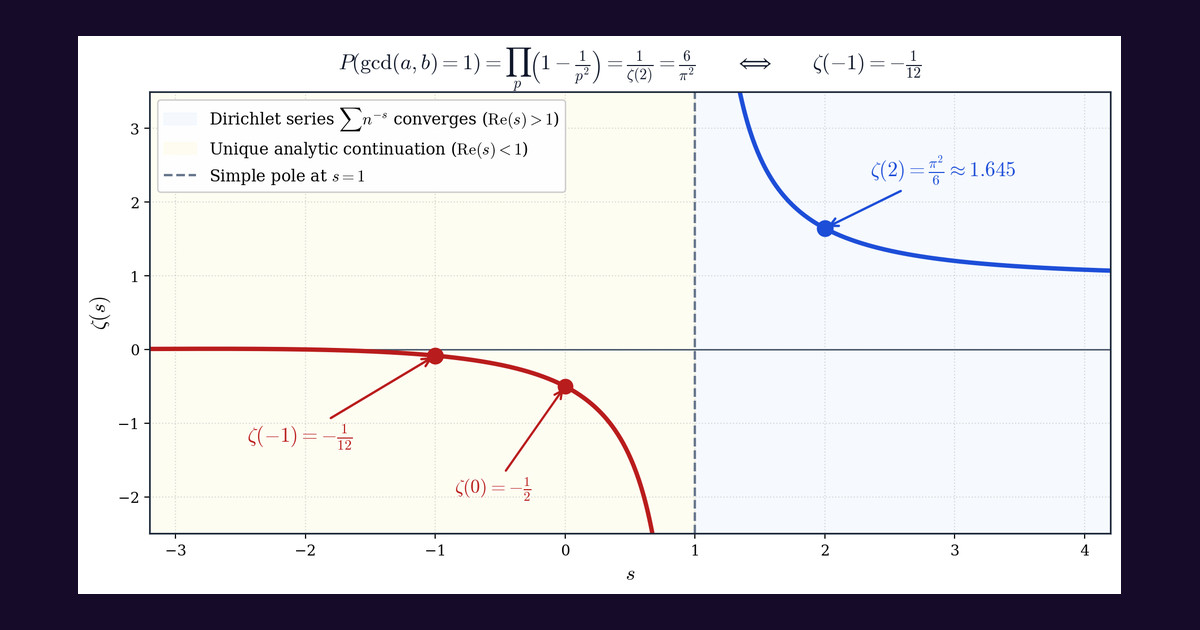
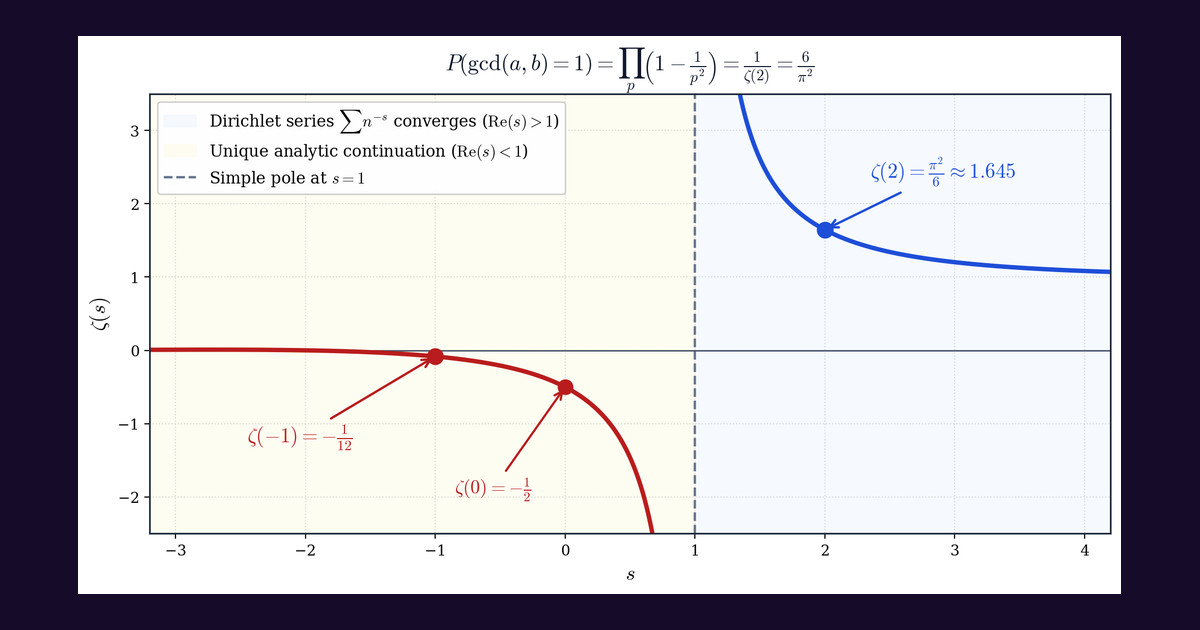
Fix zeta cover title expression; use Gojo-themed cover for Peano post

diff --git a/data/portfolio_data.js b/data/portfolio_data.js
@@ -615,7 +615,7 @@ window.PORTFOLIO_DATA = {
       "category": "Mathematics & Physics",
       "source": "Blog",
       "read_time": "11 min read",
-      "cover_image": "/images/peano_and_dedekind_gap.png",
+      "cover_image": "/images/peano_dedekind_cover.jpg",
       "summary": "How to build the entire number system from the empty set: Peano axioms and von Neumann ordinals for ℕ, equivalence classes for ℤ and ℚ, why S = {x ∈ ℚ : 0 < x² < 2} has no supremum in ℚ, Dedekind cuts for ℝ, and why equipping the vector space ℝ² with any field structure forces an element z ∈ ℂ with z² = −1.",
       "external_url": "",
       "pdf_url": "",
@@ -625,7 +625,7 @@ window.PORTFOLIO_DATA = {
         "Set Theory",
         "Field Theory & ℂ"
       ],
-      "content": "Whether $0$ is considered a natural number is purely a matter of convention. Throughout this article, we adopt the standard foundational convention:\n\n$$\\mathbb{N} := \\{0, 1, 2, 3, \\dots\\}$$\n\nThis raises a foundational question: **how do we rigorously construct $\\mathbb{N}$ from scratch, and how do we climb all the way from $\\mathbb{N}$ through $\\mathbb{Z}$, $\\mathbb{Q}$, and $\\mathbb{R}$ to the complex field $\\mathbb{C}$?**\n\n## 1. Constructing $\\mathbb{N}$ via the Peano Axioms\n\nThe classic axiomatization of the natural numbers is given by the **Peano Axioms**. Rather than listing all five axioms at once, it is much more illuminating to introduce them one by one and see what breaks when any single axiom is omitted.\n\n### Axiom (a) & Axiom (b): Starting Point and Successors\n\n- **Axiom (a):** $0 \\in \\mathbb{N}$.\n- **Axiom (b):** If $n \\in \\mathbb{N}$, then its **successor** $n^{++} \\in \\mathbb{N}$.\n\nWe define the familiar numerals as abbreviations for repeated successors: $1 := 0^{++}$, $2 := 1^{++}$, $3 := 2^{++}$, and so on.\n\n**Why (a) and (b) are not enough:** Nothing in these two rules prevents the successor operation from looping back to $0$. For instance, the two-element set $\\mathbb{N} = \\{0, 1\\}$ with\n\n$$0^{++} = 1, \\qquad 1^{++} = 0$$\n\nsatisfies both (a) and (b)! To forbid cycles returning to $0$, we need a third axiom:\n\n### Axiom (c): $0$ Is Not a Successor\n\n- **Axiom (c):** For all $n \\in \\mathbb{N}$, $n^{++} \\neq 0$.\n\nThis prevents the chain from wrapping back around to $0$.\n\n**Why (a), (b), and (c) are still not enough:** Consider again the two-element set $\\mathbb{N} = \\{0, 1\\}$, but now define:\n\n$$0^{++} = 1, \\qquad 1^{++} = 1$$\n\nHere nothing maps to $0$, so Axiom (c) is satisfied, yet the chain gets stuck at $1$ forever! To prevent two distinct numbers from collapsing onto the same successor, we require the successor map to be **injective (one-to-one)**:\n\n### Axiom (d): Injectivity of the Successor Map\n\n- **Axiom (d):** For all $n, m \\in \\mathbb{N}$, if $n^{++} = m^{++}$, then $n = m$.\n\nNow $0^{++} = 1$ and $1^{++} = 1$ is impossible because $0 \\neq 1$. Together, Axioms (a) through (d) force $\\mathbb{N}$ to be an **infinite** set.\n\n**Why even (a) through (d) are not enough:** Even an infinite set satisfying (a) through (d) can contain \"uninvited guests\" that cannot be reached from $0$ by repeated successors! For example, suppose someone claims:\n\n$$\\tilde{\\mathbb{N}} = \\{0, 0.5, 1, 1.5, 2, 2.5, \\dots\\}$$\n\nwith $x^{++} = x + 1$. This set contains $0$, is closed under $^{++}$, never maps back to $0$, and has an injective successor map. Yet the half-integers $0.5, 1.5, 2.5, \\dots$ form a separate, parallel chain hiding inside the set that is completely unreachable starting from $0$.\n\nTo lock out every such rogue element, we introduce the fifth and final axiom:\n\n### Axiom (e): Principle of Mathematical Induction\n\n- **Axiom (e):** Let $P(n)$ be any property pertaining to $n$. If $P(0)$ is true, and whenever $P(n)$ is true it follows that $P(n^{++})$ is also true, then $P(n)$ is true for **all** $n \\in \\mathbb{N}$.\n\nWatch how Induction immediately expels the half-integers: define the predicate\n\n$$P(n) :\\equiv \\text{\"}n\\text{ is not a half-integer.\"}$$\n\n1. **Base case:** $P(0)$ is clearly true.\n2. **Inductive step:** If $n$ is not a half-integer, then $n + 1$ is not a half-integer either, so $P(n) \\implies P(n^{++})$.\n\nBy Axiom (e), $P(n)$ must hold for every $n \\in \\mathbb{N}$. Since $P(0.5)$ is false, $0.5$ cannot belong to $\\mathbb{N}$!\n\n![Pathological models defeated by Peano Axioms (c), (d), and (e)](/images/peano_pathological_models.png)\n\n## 2. Von Neumann Ordinals and the Axiom of Infinity\n\nThe Peano axioms specify how $\\mathbb{N}$ *behaves*, but can we explicitly build a concrete model of $\\mathbb{N}$ out of pure sets? My favorite construction is due to **John von Neumann**, who defined each natural number as the set of all preceding natural numbers via the successor operation:\n\n$$x^{++} := x \\cup \\{x\\}$$\n\nStarting with $0 := \\varnothing$ (the empty set), every natural number emerges purely from braces:\n\n$$\\begin{aligned}\n0 &:= \\varnothing \\\\\n1 &:= 0^{++} = \\varnothing \\cup \\{\\varnothing\\} = \\{\\varnothing\\} \\\\\n2 &:= 1^{++} = \\{\\varnothing, \\{\\varnothing\\}\\} = \\{0, 1\\} \\\\\n3 &:= 2^{++} = \\{\\varnothing, \\{\\varnothing\\}, \\{\\varnothing, \\{\\varnothing\\}\\}\\} = \\{0, 1, 2\\}\n\\end{aligned}$$\n\nNotice that the cardinality (number of elements) of the set $n$ is literally $n$!\n\nHere is the catch illustrated in the meme below: using the elementary axioms of Zermelo-Fraenkel (ZF) set theory (Empty Set, Pairing, and Union), we can construct any *individual* finite ordinal $0, 1, 2, \\dots, n$. However, a finite sequence of set operations can never gather *all* of them into a single completed set $\\mathbb{N}$.\n\n![Axiom of Infinity guarding against building infinite set N purely from successor iterations](/images/axiom_of_infinity_meme.jpg)\n\nTo guarantee that the entire infinite collection $\\mathbb{N} = \\{0, 1, 2, \\dots\\}$ exists as a set, ZF must postulate the **Axiom of Infinity**: there exists an inductive set containing $\\varnothing$ that is closed under $x \\mapsto x \\cup \\{x\\}$.\n\n## 3. Constructing $\\mathbb{Z}$ and $\\mathbb{Q}$ via Equivalence Classes\n\nOnce we have $(\\mathbb{N}, +, \\times)$, how do we construct negative numbers and fractions without assuming subtraction or division beforehand? The secret is **equivalence classes of ordered pairs**.\n\n### Step 1: Constructing the Integers $\\mathbb{Z}$ from $\\mathbb{N} \\times \\mathbb{N}$\n\nIn $\\mathbb{N}$, an equation like $x + 3 = 2$ has no solution because $2 - 3$ does not exist in $\\mathbb{N}$. To build the integers $\\mathbb{Z}$ using *only* natural numbers and $+$, we represent every integer as an ordered pair $(a, b) \\in \\mathbb{N} \\times \\mathbb{N}$, which we intuitively think of as the difference $a - b$.\n\nSince $a - b = c - d \\iff a + d = b + c$, we can state when two pairs represent the same integer using **only addition in $\\mathbb{N}$**:\n\n$$(a, b) \\sim (c, d) \\iff a + d = b + c$$\n\nThe integers are the equivalence classes $\\mathbb{Z} := (\\mathbb{N} \\times \\mathbb{N}) / {\\sim}$:\n\n- **Zero:** $0_{\\mathbb{Z}} = [(0, 0)] = \\{(0, 0), (1, 1), (2, 2), \\dots\\}$\n- **Positive integers:** $+n = [(n, 0)] = \\{(n, 0), (n+1, 1), (n+2, 2), \\dots\\}$\n- **Negative integers:** $-n = [(0, n)] = \\{(0, n), (1, n+1), (2, n+2), \\dots\\}$\n\n### Step 2: Constructing the Rationals $\\mathbb{Q}$ from $\\mathbb{Z} \\times (\\mathbb{Z} \\setminus \\{0\\})$\n\nIn $\\mathbb{Z}$, we can subtract freely, but $2x = 1$ still has no solution. To build fractions $p/q$ without already having division, we take ordered pairs $(p, q) \\in \\mathbb{Z} \\times (\\mathbb{Z} \\setminus \\{0\\})$ and define equivalence via **cross-multiplication**:\n\n$$(p, q) \\sim (r, s) \\iff p \\cdot s = q \\cdot r$$\n\nThe rational numbers are the equivalence classes $\\mathbb{Q} := \\left(\\mathbb{Z} \\times (\\mathbb{Z} \\setminus \\{0\\})\\right) / {\\sim}$, with addition $[(p, q)] + [(r, s)] = [(ps + qr,\\, qs)]$ and multiplication $[(p, q)] \\cdot [(r, s)] = [(pr,\\, qs)]$.\n\n## 4. Why $\\mathbb{Q}$ Is Incomplete: A Gap at $\\sqrt{2}$\n\nEquipped with $+$ and $\\times$, $(\\mathbb{Q}, +, \\times, <)$ forms an **ordered field**. Yet $\\mathbb{Q}$ still has holes: **a nonempty subset of $\\mathbb{Q}$ can be bounded above in $\\mathbb{Q}$ without having a supremum (least upper bound) in $\\mathbb{Q}$**.\n\nConsider the nonempty rational set:\n\n$$S = \\{x \\in \\mathbb{Q} : x > 0 \\text{ and } x^2 < 2\\} \\neq \\varnothing$$\n\nClearly $\\inf S = 0 \\in \\mathbb{Q}$, and $S$ is bounded above by $2$. Suppose for contradiction that $S$ had a least upper bound $a = \\sup S \\in \\mathbb{Q}$ (with $0 < a < 2$):\n\n#### Case 1: $a^2 < 2$\n\nIf $a^2 < 2$, we can find a small positive rational step $\\delta \\in \\mathbb{Q}$ ($0 < \\delta \\le 1$) such that $(a + \\delta)^2 < 2$ still holds. Since $a < 2$ and $\\delta \\le 1$:\n\n$$(a + \\delta)^2 = a^2 + \\delta(2a + \\delta) < a^2 + \\delta(2 \\times 2 + 1) = a^2 + 5\\delta$$\n\nChoosing $\\delta = \\min\\!\\left(1,\\, \\frac{2 - a^2}{5}\\right) \\in \\mathbb{Q}^+$ gives $(a + \\delta)^2 < a^2 + 5\\delta \\le 2$. Thus $a + \\delta \\in S$ and $a + \\delta > a$, contradicting that $a$ is an upper bound of $S$!\n\n#### Case 2: $a^2 > 2$\n\nIf $a^2 > 2$, choosing $\\delta = \\frac{a^2 - 2}{2a} \\in \\mathbb{Q}^+$ gives $a - \\delta > 0$ and\n\n$$(a - \\delta)^2 = a^2 - 2a\\delta + \\delta^2 > a^2 - 2a\\left(\\frac{a^2 - 2}{2a}\\right) = 2$$\n\nThus $a - \\delta < a$ is already an upper bound for $S$, contradicting that $a$ is the *least* upper bound ($\\sup S$)!\n\nTherefore $\\sup S$ would have to satisfy $a^2 = 2$ ($a = \\sqrt{2} \\notin \\mathbb{Q}$), proving that **$\\sup S$ does not exist in $\\mathbb{Q}$**.\n\n## 5. Constructing the Real Numbers $\\mathbb{R}$ via Dedekind Cuts\n\nHow do we fill every gap in $\\mathbb{Q}$ to construct the complete ordered field $\\mathbb{R}$? Notice first that we cannot build $\\mathbb{R}$ as a simple quotient of finite pairs like $\\mathbb{N} \\times \\mathbb{N}$ because $\\mathbb{N} \\times \\mathbb{N}$ and $\\mathbb{Q}$ are **countable** ($\\aleph_0$), whereas $\\mathbb{R}$ is **uncountable** ($2^{\\aleph_0}$). Instead, we step up from pairs of rationals to **subsets of $\\mathbb{Q}$**!\n\nSince $\\mathbb{Q}$ has a hole at $\\sqrt{2}$, **Richard Dedekind's** brilliant idea (1872) was to **identify each real number with the set of all rational numbers strictly to its left**. Formally, a **Dedekind cut** is a subset $\\alpha \\subset \\mathbb{Q}$ satisfying three simple rules:\n\n1. **Nontrivial:** $\\alpha \\neq \\varnothing$ and $\\alpha \\neq \\mathbb{Q}$.\n2. **Closed downward:** If $p \\in \\alpha$ and $q \\in \\mathbb{Q}$ with $q < p$, then $q \\in \\alpha$.\n3. **No greatest element:** For every $p \\in \\alpha$, there exists $r \\in \\alpha$ with $p < r$.\n\nLook how naturally our gap set $S$ turns into the real number $\\sqrt{2} \\in \\mathbb{R}$:\n\n$$\\alpha_{\\sqrt{2}} := \\{x \\in \\mathbb{Q} : x \\le 0\\} \\cup \\{x \\in \\mathbb{Q} : x > 0 \\text{ and } x^2 < 2\\}$$\n\nOrdering on cuts is just set inclusion ($\\alpha \\le \\beta \\iff \\alpha \\subseteq \\beta$), with the zero cut given by $0_{\\mathbb{R}} := \\{q \\in \\mathbb{Q} : q < 0\\}$. **Dedekind Completeness** becomes effortless: for any nonempty family $\\mathcal{F}$ of cuts bounded above, its least upper bound ($\\sup \\mathcal{F}$) in $\\mathbb{R}$ is simply their **set union** $\\bigcup_{\\alpha \\in \\mathcal{F}} \\alpha$!\n\n### Arithmetic on Dedekind Cuts ($+$ and $\\cdot$)\n\nTo make $\\mathbb{R}$ an ordered field, how do we add and multiply cuts?\n\n- **Addition** is completely natural: we add every rational in $\\alpha$ to every rational in $\\beta$:\n  $$\\alpha + \\beta := \\{p + q : p \\in \\alpha,\\, q \\in \\beta\\}$$\n- **Multiplication** has a famous subtlety: we *cannot* simply define $\\alpha \\cdot \\beta$ as $\\{p \\cdot q : p \\in \\alpha, q \\in \\beta\\}$, because every cut contains arbitrarily large negative rationals (e.g., $-1000 \\in \\alpha, -1000 \\in \\beta$), whose product $+10^6$ would make the set unbounded above! Instead, for **positive cuts** ($\\alpha > 0_{\\mathbb{R}}$ and $\\beta > 0_{\\mathbb{R}}$), we multiply only their positive elements and attach the negative rationals to keep the cut closed downward:\n  $$\\alpha \\cdot \\beta := \\{q \\in \\mathbb{Q} : q \\le 0\\} \\cup \\{p \\cdot q : p \\in \\alpha,\\, q \\in \\beta \\text{ with } p > 0,\\, q > 0\\}$$\n  (with multiplication for negative cuts then defined by the standard sign rules, e.g., $\\alpha \\cdot \\beta = -((-\\alpha) \\cdot \\beta)$ when $\\alpha < 0_{\\mathbb{R}} < \\beta$). Under this definition, notice that for our cut $\\alpha_{\\sqrt{2}}$, multiplying positive rationals $p, q > 0$ with $p^2 < 2$ and $q^2 < 2$ yields $\\alpha_{\\sqrt{2}} \\cdot \\alpha_{\\sqrt{2}} = \\{x \\in \\mathbb{Q} : x < 2\\} = 2_{\\mathbb{R}}$!\n\n## 6. From $\\mathbb{R}$ to $\\mathbb{C}$: Why Any Field Structure on $\\mathbb{R}^2$ Forces $z^2 = -1$\n\nIn the complete ordered field $\\mathbb{R}$, every nonnegative number has a square root, yet the polynomial $z^2 + 1 = 0$ still has no root because $x^2 \\ge 0$ for all $x \\in \\mathbb{R}$. Rather than inventing an \"imaginary\" symbol $i = \\sqrt{-1}$ by fiat, we can ask a much more structural question: **if we view $\\mathbb{C} \\cong \\mathbb{R}^2$ as a 2-dimensional vector space over $\\mathbb{R}$ and equip it with *any* valid field multiplication compatible with its vector-space operations, must there automatically exist an element $z \\in \\mathbb{R}^2$ satisfying $z^2 = -1$?**\n\nLet us prove this directly from the vector-space and field axioms:\n\n### Step 1: Basis Decomposition in $\\mathbb{R}^2$\n\nView $\\mathbb{C} \\cong \\mathbb{R}^2$ as a 2-dimensional $\\mathbb{R}$-vector space spanned by the multiplicative identity $\\mathbf{1}$ (which spans the real axis) and any second linearly independent vector $\\mathbf{e} \\notin \\operatorname{span}\\{\\mathbf{1}\\}$:\n\n$$\\mathbb{R}^2 = \\operatorname{span}\\{\\mathbf{1},\\, \\mathbf{e}\\}$$\n\nConsider an arbitrary vector $z \\in \\mathbb{R}^2$ that does not lie on the real ($\\mathbf{1}$) axis:\n\n$$z = x \\cdot \\mathbf{1} + y \\cdot \\mathbf{e}, \\qquad x, y \\in \\mathbb{R}, \\quad y \\neq 0$$\n\n### Step 2: Squaring $z$ Using Closure of Multiplication\n\nBy bilinearity and commutativity of the field multiplication on $\\mathbb{R}^2$:\n\n$$z^2 = x^2 \\cdot \\mathbf{1} + y^2 \\cdot \\mathbf{e}^2 + 2xy \\cdot \\mathbf{e}$$\n\nSince $\\mathbb{R}^2$ is closed under multiplication, $\\mathbf{e}^2 \\in \\mathbb{R}^2$ must itself be a unique real linear combination of the basis vectors $\\{\\mathbf{1}, \\mathbf{e}\\}$:\n\n$$\\mathbf{e}^2 = a \\cdot \\mathbf{1} + b \\cdot \\mathbf{e} \\qquad \\text{for some } a, b \\in \\mathbb{R}$$\n\nSubstituting $\\mathbf{e}^2$ into the expansion of $z^2$ gives:\n\n$$z^2 = (x^2 + ay^2) \\cdot \\mathbf{1} + (by^2 + 2xy) \\cdot \\mathbf{e}$$\n\n### Step 3: Eliminating the $\\mathbf{e}$-Component\n\nBecause $y \\neq 0$, we can choose the real coordinate $x = -\\frac{by}{2} \\in \\mathbb{R}$ so that the coefficient of $\\mathbf{e}$ vanishes ($by^2 + 2xy = by^2 - by^2 = 0$). With this choice of $x$, $z^2$ collapses purely onto the $\\mathbf{1}$-axis:\n\n$$z^2 = \\left(x^2 + ay^2\\right) \\cdot \\mathbf{1} = \\left(\\frac{b^2 y^2}{4} + ay^2\\right) \\cdot \\mathbf{1} = \\left(a + \\frac{b^2}{4}\\right) y^2 \\cdot \\mathbf{1}$$\n\n### Step 4: Why $a + \\frac{b^2}{4}$ Must Be Strictly Negative\n\nEvery real number $a + \\frac{b^2}{4} \\in \\mathbb{R}$ can be written as either $+c^2$ or $-c^2$ for some $c \\ge 0$:\n\n- **Suppose $a + \\frac{b^2}{4} = c^2 \\ge 0$:** Then\n  $$z^2 = c^2 y^2 \\cdot \\mathbf{1} = (cy \\cdot \\mathbf{1})^2 \\implies (z - cy \\cdot \\mathbf{1})(z + cy \\cdot \\mathbf{1}) = 0$$\n  Because a field has no zero divisors, this forces $z = \\pm cy \\cdot \\mathbf{1}$. **Contradiction!** By construction, $z = -\\frac{by}{2}\\mathbf{1} + y\\mathbf{e}$ has $y \\neq 0$, so $z$ does not align with the real ($\\mathbf{1}$) axis.\n- **Therefore, $a + \\frac{b^2}{4} = -c^2 < 0$ (with $c > 0$):** Now simply choose $y = \\frac{1}{c}$ (and $x = -\\frac{b}{2c}$). Then the vector\n  $$z = -\\frac{b}{2c} \\cdot \\mathbf{1} + \\frac{1}{c} \\cdot \\mathbf{e} \\in \\mathbb{R}^2$$\n  satisfies:\n  $$z^2 = -c^2 \\cdot \\left(\\frac{1}{c}\\right)^2 \\cdot \\mathbf{1} = -\\mathbf{1}$$\n\n$$\\therefore \\quad \\exists\\, z \\in \\mathbb{C} \\text{ such that } z^2 = -1.$$\n\nThus, the existence of $i$ (with $i^2 = -1$) is not an arbitrary invention: **any** way of turning the 2D real plane $\\mathbb{R}^2$ into a field over $\\mathbb{R}$ inevitably produces a square root of $-1$ and yields a field isomorphic to $\\mathbb{C}$!",
+      "content": "Whether $0$ is considered a natural number is purely a matter of convention. Throughout this article, we adopt the standard foundational convention:\n\n$$\\mathbb{N} := \\{0, 1, 2, 3, \\dots\\}$$\n\nThis raises a foundational question: **how do we rigorously construct $\\mathbb{N}$ from scratch, and how do we climb all the way from $\\mathbb{N}$ through $\\mathbb{Z}$, $\\mathbb{Q}$, and $\\mathbb{R}$ to the complex field $\\mathbb{C}$?**\n\n## 1. Constructing $\\mathbb{N}$ via the Peano Axioms\n\nThe classic axiomatization of the natural numbers is given by the **Peano Axioms**. Rather than listing all five axioms at once, it is much more illuminating to introduce them one by one and see what breaks when any single axiom is omitted.\n\n### Axiom (a) & Axiom (b): Starting Point and Successors\n\n- **Axiom (a):** $0 \\in \\mathbb{N}$.\n- **Axiom (b):** If $n \\in \\mathbb{N}$, then its **successor** $n^{++} \\in \\mathbb{N}$.\n\nWe define the familiar numerals as abbreviations for repeated successors: $1 := 0^{++}$, $2 := 1^{++}$, $3 := 2^{++}$, and so on.\n\n**Why (a) and (b) are not enough:** Nothing in these two rules prevents the successor operation from looping back to $0$. For instance, the two-element set $\\mathbb{N} = \\{0, 1\\}$ with\n\n$$0^{++} = 1, \\qquad 1^{++} = 0$$\n\nsatisfies both (a) and (b)! To forbid cycles returning to $0$, we need a third axiom:\n\n### Axiom (c): $0$ Is Not a Successor\n\n- **Axiom (c):** For all $n \\in \\mathbb{N}$, $n^{++} \\neq 0$.\n\nThis prevents the chain from wrapping back around to $0$.\n\n**Why (a), (b), and (c) are still not enough:** Consider again the two-element set $\\mathbb{N} = \\{0, 1\\}$, but now define:\n\n$$0^{++} = 1, \\qquad 1^{++} = 1$$\n\nHere nothing maps to $0$, so Axiom (c) is satisfied, yet the chain gets stuck at $1$ forever! To prevent two distinct numbers from collapsing onto the same successor, we require the successor map to be **injective (one-to-one)**:\n\n### Axiom (d): Injectivity of the Successor Map\n\n- **Axiom (d):** For all $n, m \\in \\mathbb{N}$, if $n^{++} = m^{++}$, then $n = m$.\n\nNow $0^{++} = 1$ and $1^{++} = 1$ is impossible because $0 \\neq 1$. Together, Axioms (a) through (d) force $\\mathbb{N}$ to be an **infinite** set.\n\n**Why even (a) through (d) are not enough:** Even an infinite set satisfying (a) through (d) can contain \"uninvited guests\" that cannot be reached from $0$ by repeated successors! For example, suppose someone claims:\n\n$$\\tilde{\\mathbb{N}} = \\{0, 0.5, 1, 1.5, 2, 2.5, \\dots\\}$$\n\nwith $x^{++} = x + 1$. This set contains $0$, is closed under $^{++}$, never maps back to $0$, and has an injective successor map. Yet the half-integers $0.5, 1.5, 2.5, \\dots$ form a separate, parallel chain hiding inside the set that is completely unreachable starting from $0$.\n\nTo lock out every such rogue element, we introduce the fifth and final axiom:\n\n### Axiom (e): Principle of Mathematical Induction\n\n- **Axiom (e):** Let $P(n)$ be any property pertaining to $n$. If $P(0)$ is true, and whenever $P(n)$ is true it follows that $P(n^{++})$ is also true, then $P(n)$ is true for **all** $n \\in \\mathbb{N}$.\n\nWatch how Induction immediately expels the half-integers: define the predicate\n\n$$P(n) :\\equiv \\text{\"}n\\text{ is not a half-integer.\"}$$\n\n1. **Base case:** $P(0)$ is clearly true.\n2. **Inductive step:** If $n$ is not a half-integer, then $n + 1$ is not a half-integer either, so $P(n) \\implies P(n^{++})$.\n\nBy Axiom (e), $P(n)$ must hold for every $n \\in \\mathbb{N}$. Since $P(0.5)$ is false, $0.5$ cannot belong to $\\mathbb{N}$!\n\n![Pathological models defeated by Peano Axioms (c), (d), and (e)](/images/peano_pathological_models.png)\n\n## 2. Von Neumann Ordinals and the Axiom of Infinity\n\nThe Peano axioms specify how $\\mathbb{N}$ *behaves*, but can we explicitly build a concrete model of $\\mathbb{N}$ out of pure sets? My favorite construction is due to **John von Neumann**, who defined each natural number as the set of all preceding natural numbers via the successor operation:\n\n$$x^{++} := x \\cup \\{x\\}$$\n\nStarting with $0 := \\varnothing$ (the empty set), every natural number emerges purely from braces:\n\n$$\\begin{aligned}\n0 &:= \\varnothing \\\\\n1 &:= 0^{++} = \\varnothing \\cup \\{\\varnothing\\} = \\{\\varnothing\\} \\\\\n2 &:= 1^{++} = \\{\\varnothing, \\{\\varnothing\\}\\} = \\{0, 1\\} \\\\\n3 &:= 2^{++} = \\{\\varnothing, \\{\\varnothing\\}, \\{\\varnothing, \\{\\varnothing\\}\\}\\} = \\{0, 1, 2\\}\n\\end{aligned}$$\n\nNotice that the cardinality (number of elements) of the set $n$ is literally $n$!\n\nHere is the catch illustrated in the meme below: using the elementary axioms of Zermelo-Fraenkel (ZF) set theory (Empty Set, Pairing, and Union), we can construct any *individual* finite ordinal $0, 1, 2, \\dots, n$. However, a finite sequence of set operations can never gather *all* of them into a single completed set $\\mathbb{N}$.\n\n![Axiom of Infinity guarding against building infinite set N purely from successor iterations](/images/axiom_of_infinity_meme.jpg)\n\nTo guarantee that the entire infinite collection $\\mathbb{N} = \\{0, 1, 2, \\dots\\}$ exists as a set, ZF must postulate the **Axiom of Infinity**: there exists an inductive set containing $\\varnothing$ that is closed under $x \\mapsto x \\cup \\{x\\}$.\n\n## 3. Constructing $\\mathbb{Z}$ and $\\mathbb{Q}$ via Equivalence Classes\n\nOnce we have $(\\mathbb{N}, +, \\times)$, how do we construct negative numbers and fractions without assuming subtraction or division beforehand? The secret is **equivalence classes of ordered pairs**.\n\n### Step 1: Constructing the Integers $\\mathbb{Z}$ from $\\mathbb{N} \\times \\mathbb{N}$\n\nIn $\\mathbb{N}$, an equation like $x + 3 = 2$ has no solution because $2 - 3$ does not exist in $\\mathbb{N}$. To build the integers $\\mathbb{Z}$ using *only* natural numbers and $+$, we represent every integer as an ordered pair $(a, b) \\in \\mathbb{N} \\times \\mathbb{N}$, which we intuitively think of as the difference $a - b$.\n\nSince $a - b = c - d \\iff a + d = b + c$, we can state when two pairs represent the same integer using **only addition in $\\mathbb{N}$**:\n\n$$(a, b) \\sim (c, d) \\iff a + d = b + c$$\n\nThe integers are the equivalence classes $\\mathbb{Z} := (\\mathbb{N} \\times \\mathbb{N}) / {\\sim}$:\n\n- **Zero:** $0_{\\mathbb{Z}} = [(0, 0)] = \\{(0, 0), (1, 1), (2, 2), \\dots\\}$\n- **Positive integers:** $+n = [(n, 0)] = \\{(n, 0), (n+1, 1), (n+2, 2), \\dots\\}$\n- **Negative integers:** $-n = [(0, n)] = \\{(0, n), (1, n+1), (2, n+2), \\dots\\}$\n\n### Step 2: Constructing the Rationals $\\mathbb{Q}$ from $\\mathbb{Z} \\times (\\mathbb{Z} \\setminus \\{0\\})$\n\nIn $\\mathbb{Z}$, we can subtract freely, but $2x = 1$ still has no solution. To build fractions $p/q$ without already having division, we take ordered pairs $(p, q) \\in \\mathbb{Z} \\times (\\mathbb{Z} \\setminus \\{0\\})$ and define equivalence via **cross-multiplication**:\n\n$$(p, q) \\sim (r, s) \\iff p \\cdot s = q \\cdot r$$\n\nThe rational numbers are the equivalence classes $\\mathbb{Q} := \\left(\\mathbb{Z} \\times (\\mathbb{Z} \\setminus \\{0\\})\\right) / {\\sim}$, with addition $[(p, q)] + [(r, s)] = [(ps + qr,\\, qs)]$ and multiplication $[(p, q)] \\cdot [(r, s)] = [(pr,\\, qs)]$.\n\n## 4. Why $\\mathbb{Q}$ Is Incomplete: A Gap at $\\sqrt{2}$\n\nEquipped with $+$ and $\\times$, $(\\mathbb{Q}, +, \\times, <)$ forms an **ordered field**. Yet $\\mathbb{Q}$ still has holes: **a nonempty subset of $\\mathbb{Q}$ can be bounded above in $\\mathbb{Q}$ without having a supremum (least upper bound) in $\\mathbb{Q}$**.\n\nConsider the nonempty rational set:\n\n$$S = \\{x \\in \\mathbb{Q} : x > 0 \\text{ and } x^2 < 2\\} \\neq \\varnothing$$\n\nClearly $\\inf S = 0 \\in \\mathbb{Q}$, and $S$ is bounded above by $2$. Suppose for contradiction that $S$ had a least upper bound $a = \\sup S \\in \\mathbb{Q}$ (with $0 < a < 2$):\n\n#### Case 1: $a^2 < 2$\n\nIf $a^2 < 2$, we can find a small positive rational step $\\delta \\in \\mathbb{Q}$ ($0 < \\delta \\le 1$) such that $(a + \\delta)^2 < 2$ still holds. Since $a < 2$ and $\\delta \\le 1$:\n\n$$(a + \\delta)^2 = a^2 + \\delta(2a + \\delta) < a^2 + \\delta(2 \\times 2 + 1) = a^2 + 5\\delta$$\n\nChoosing $\\delta = \\min\\!\\left(1,\\, \\frac{2 - a^2}{5}\\right) \\in \\mathbb{Q}^+$ gives $(a + \\delta)^2 < a^2 + 5\\delta \\le 2$. Thus $a + \\delta \\in S$ and $a + \\delta > a$, contradicting that $a$ is an upper bound of $S$!\n\n#### Case 2: $a^2 > 2$\n\nIf $a^2 > 2$, choosing $\\delta = \\frac{a^2 - 2}{2a} \\in \\mathbb{Q}^+$ gives $a - \\delta > 0$ and\n\n$$(a - \\delta)^2 = a^2 - 2a\\delta + \\delta^2 > a^2 - 2a\\left(\\frac{a^2 - 2}{2a}\\right) = 2$$\n\nThus $a - \\delta < a$ is already an upper bound for $S$, contradicting that $a$ is the *least* upper bound ($\\sup S$)!\n\nTherefore $\\sup S$ would have to satisfy $a^2 = 2$ ($a = \\sqrt{2} \\notin \\mathbb{Q}$), proving that **$\\sup S$ does not exist in $\\mathbb{Q}$**.\n\n![Dedekind gap at sqrt(2): no supremum of S in Q, filled by cuts in R](/images/peano_and_dedekind_gap.png)\n\n## 5. Constructing the Real Numbers $\\mathbb{R}$ via Dedekind Cuts\n\nHow do we fill every gap in $\\mathbb{Q}$ to construct the complete ordered field $\\mathbb{R}$? Notice first that we cannot build $\\mathbb{R}$ as a simple quotient of finite pairs like $\\mathbb{N} \\times \\mathbb{N}$ because $\\mathbb{N} \\times \\mathbb{N}$ and $\\mathbb{Q}$ are **countable** ($\\aleph_0$), whereas $\\mathbb{R}$ is **uncountable** ($2^{\\aleph_0}$). Instead, we step up from pairs of rationals to **subsets of $\\mathbb{Q}$**!\n\nSince $\\mathbb{Q}$ has a hole at $\\sqrt{2}$, **Richard Dedekind's** brilliant idea (1872) was to **identify each real number with the set of all rational numbers strictly to its left**. Formally, a **Dedekind cut** is a subset $\\alpha \\subset \\mathbb{Q}$ satisfying three simple rules:\n\n1. **Nontrivial:** $\\alpha \\neq \\varnothing$ and $\\alpha \\neq \\mathbb{Q}$.\n2. **Closed downward:** If $p \\in \\alpha$ and $q \\in \\mathbb{Q}$ with $q < p$, then $q \\in \\alpha$.\n3. **No greatest element:** For every $p \\in \\alpha$, there exists $r \\in \\alpha$ with $p < r$.\n\nLook how naturally our gap set $S$ turns into the real number $\\sqrt{2} \\in \\mathbb{R}$:\n\n$$\\alpha_{\\sqrt{2}} := \\{x \\in \\mathbb{Q} : x \\le 0\\} \\cup \\{x \\in \\mathbb{Q} : x > 0 \\text{ and } x^2 < 2\\}$$\n\nOrdering on cuts is just set inclusion ($\\alpha \\le \\beta \\iff \\alpha \\subseteq \\beta$), with the zero cut given by $0_{\\mathbb{R}} := \\{q \\in \\mathbb{Q} : q < 0\\}$. **Dedekind Completeness** becomes effortless: for any nonempty family $\\mathcal{F}$ of cuts bounded above, its least upper bound ($\\sup \\mathcal{F}$) in $\\mathbb{R}$ is simply their **set union** $\\bigcup_{\\alpha \\in \\mathcal{F}} \\alpha$!\n\n### Arithmetic on Dedekind Cuts ($+$ and $\\cdot$)\n\nTo make $\\mathbb{R}$ an ordered field, how do we add and multiply cuts?\n\n- **Addition** is completely natural: we add every rational in $\\alpha$ to every rational in $\\beta$:\n  $$\\alpha + \\beta := \\{p + q : p \\in \\alpha,\\, q \\in \\beta\\}$$\n- **Multiplication** has a famous subtlety: we *cannot* simply define $\\alpha \\cdot \\beta$ as $\\{p \\cdot q : p \\in \\alpha, q \\in \\beta\\}$, because every cut contains arbitrarily large negative rationals (e.g., $-1000 \\in \\alpha, -1000 \\in \\beta$), whose product $+10^6$ would make the set unbounded above! Instead, for **positive cuts** ($\\alpha > 0_{\\mathbb{R}}$ and $\\beta > 0_{\\mathbb{R}}$), we multiply only their positive elements and attach the negative rationals to keep the cut closed downward:\n  $$\\alpha \\cdot \\beta := \\{q \\in \\mathbb{Q} : q \\le 0\\} \\cup \\{p \\cdot q : p \\in \\alpha,\\, q \\in \\beta \\text{ with } p > 0,\\, q > 0\\}$$\n  (with multiplication for negative cuts then defined by the standard sign rules, e.g., $\\alpha \\cdot \\beta = -((-\\alpha) \\cdot \\beta)$ when $\\alpha < 0_{\\mathbb{R}} < \\beta$). Under this definition, notice that for our cut $\\alpha_{\\sqrt{2}}$, multiplying positive rationals $p, q > 0$ with $p^2 < 2$ and $q^2 < 2$ yields $\\alpha_{\\sqrt{2}} \\cdot \\alpha_{\\sqrt{2}} = \\{x \\in \\mathbb{Q} : x < 2\\} = 2_{\\mathbb{R}}$!\n\n## 6. From $\\mathbb{R}$ to $\\mathbb{C}$: Why Any Field Structure on $\\mathbb{R}^2$ Forces $z^2 = -1$\n\nIn the complete ordered field $\\mathbb{R}$, every nonnegative number has a square root, yet the polynomial $z^2 + 1 = 0$ still has no root because $x^2 \\ge 0$ for all $x \\in \\mathbb{R}$. Rather than inventing an \"imaginary\" symbol $i = \\sqrt{-1}$ by fiat, we can ask a much more structural question: **if we view $\\mathbb{C} \\cong \\mathbb{R}^2$ as a 2-dimensional vector space over $\\mathbb{R}$ and equip it with *any* valid field multiplication compatible with its vector-space operations, must there automatically exist an element $z \\in \\mathbb{R}^2$ satisfying $z^2 = -1$?**\n\nLet us prove this directly from the vector-space and field axioms:\n\n### Step 1: Basis Decomposition in $\\mathbb{R}^2$\n\nView $\\mathbb{C} \\cong \\mathbb{R}^2$ as a 2-dimensional $\\mathbb{R}$-vector space spanned by the multiplicative identity $\\mathbf{1}$ (which spans the real axis) and any second linearly independent vector $\\mathbf{e} \\notin \\operatorname{span}\\{\\mathbf{1}\\}$:\n\n$$\\mathbb{R}^2 = \\operatorname{span}\\{\\mathbf{1},\\, \\mathbf{e}\\}$$\n\nConsider an arbitrary vector $z \\in \\mathbb{R}^2$ that does not lie on the real ($\\mathbf{1}$) axis:\n\n$$z = x \\cdot \\mathbf{1} + y \\cdot \\mathbf{e}, \\qquad x, y \\in \\mathbb{R}, \\quad y \\neq 0$$\n\n### Step 2: Squaring $z$ Using Closure of Multiplication\n\nBy bilinearity and commutativity of the field multiplication on $\\mathbb{R}^2$:\n\n$$z^2 = x^2 \\cdot \\mathbf{1} + y^2 \\cdot \\mathbf{e}^2 + 2xy \\cdot \\mathbf{e}$$\n\nSince $\\mathbb{R}^2$ is closed under multiplication, $\\mathbf{e}^2 \\in \\mathbb{R}^2$ must itself be a unique real linear combination of the basis vectors $\\{\\mathbf{1}, \\mathbf{e}\\}$:\n\n$$\\mathbf{e}^2 = a \\cdot \\mathbf{1} + b \\cdot \\mathbf{e} \\qquad \\text{for some } a, b \\in \\mathbb{R}$$\n\nSubstituting $\\mathbf{e}^2$ into the expansion of $z^2$ gives:\n\n$$z^2 = (x^2 + ay^2) \\cdot \\mathbf{1} + (by^2 + 2xy) \\cdot \\mathbf{e}$$\n\n### Step 3: Eliminating the $\\mathbf{e}$-Component\n\nBecause $y \\neq 0$, we can choose the real coordinate $x = -\\frac{by}{2} \\in \\mathbb{R}$ so that the coefficient of $\\mathbf{e}$ vanishes ($by^2 + 2xy = by^2 - by^2 = 0$). With this choice of $x$, $z^2$ collapses purely onto the $\\mathbf{1}$-axis:\n\n$$z^2 = \\left(x^2 + ay^2\\right) \\cdot \\mathbf{1} = \\left(\\frac{b^2 y^2}{4} + ay^2\\right) \\cdot \\mathbf{1} = \\left(a + \\frac{b^2}{4}\\right) y^2 \\cdot \\mathbf{1}$$\n\n### Step 4: Why $a + \\frac{b^2}{4}$ Must Be Strictly Negative\n\nEvery real number $a + \\frac{b^2}{4} \\in \\mathbb{R}$ can be written as either $+c^2$ or $-c^2$ for some $c \\ge 0$:\n\n- **Suppose $a + \\frac{b^2}{4} = c^2 \\ge 0$:** Then\n  $$z^2 = c^2 y^2 \\cdot \\mathbf{1} = (cy \\cdot \\mathbf{1})^2 \\implies (z - cy \\cdot \\mathbf{1})(z + cy \\cdot \\mathbf{1}) = 0$$\n  Because a field has no zero divisors, this forces $z = \\pm cy \\cdot \\mathbf{1}$. **Contradiction!** By construction, $z = -\\frac{by}{2}\\mathbf{1} + y\\mathbf{e}$ has $y \\neq 0$, so $z$ does not align with the real ($\\mathbf{1}$) axis.\n- **Therefore, $a + \\frac{b^2}{4} = -c^2 < 0$ (with $c > 0$):** Now simply choose $y = \\frac{1}{c}$ (and $x = -\\frac{b}{2c}$). Then the vector\n  $$z = -\\frac{b}{2c} \\cdot \\mathbf{1} + \\frac{1}{c} \\cdot \\mathbf{e} \\in \\mathbb{R}^2$$\n  satisfies:\n  $$z^2 = -c^2 \\cdot \\left(\\frac{1}{c}\\right)^2 \\cdot \\mathbf{1} = -\\mathbf{1}$$\n\n$$\\therefore \\quad \\exists\\, z \\in \\mathbb{C} \\text{ such that } z^2 = -1.$$\n\nThus, the existence of $i$ (with $i^2 = -1$) is not an arbitrary invention: **any** way of turning the 2D real plane $\\mathbb{R}^2$ into a field over $\\mathbb{R}$ inevitably produces a square root of $-1$ and yields a field isomorphic to $\\mathbb{C}$!",
       "featured_on_main": false,
       "hide_from_main": true,
       "hide_from_blog": false,
